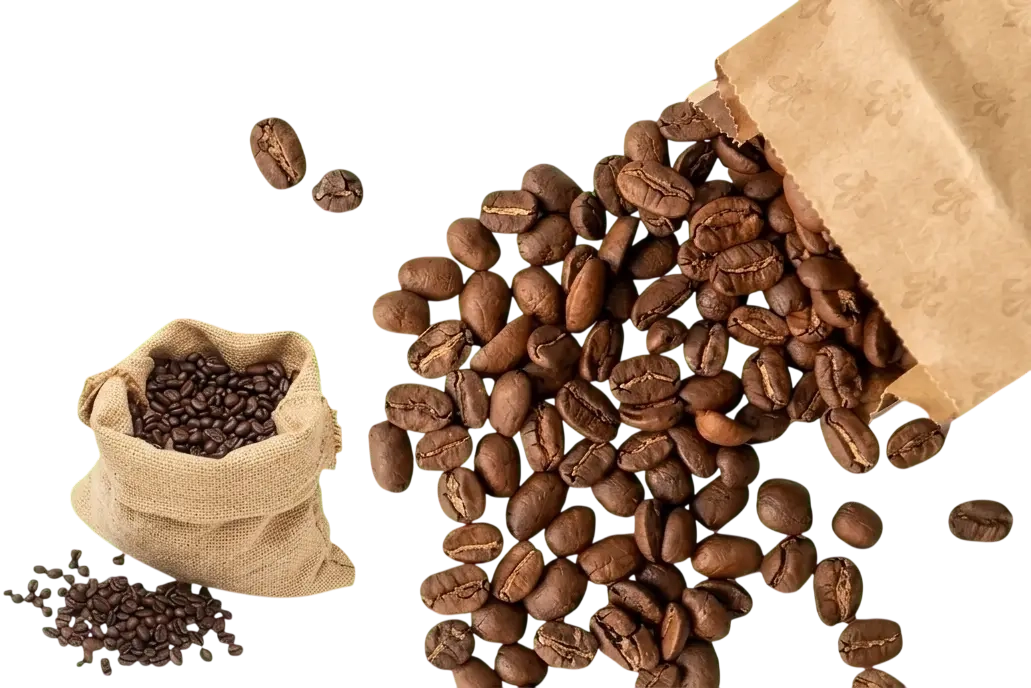
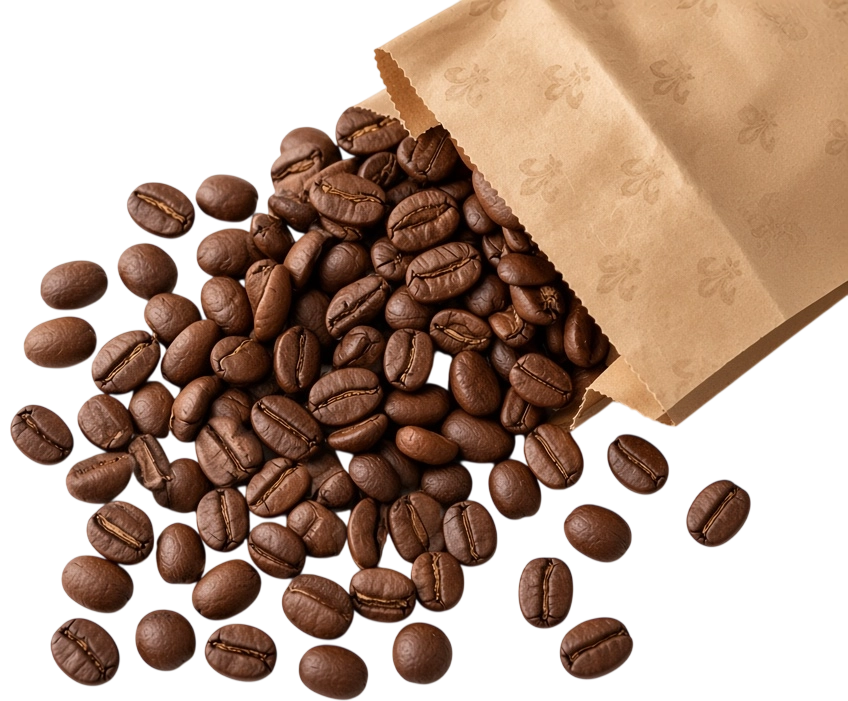
feat: enhance Coffee-Beans UI and overall experience

diff --git a/src/components/coffee-beans/CoffeeBeans.tsx b/src/components/coffee-beans/CoffeeBeans.tsx
@@ -1,26 +1,74 @@
+"use client";
+
 import React from "react";
+import { motion } from "framer-motion";
 
 const CoffeeBeans = () => {
   return (
-    <section className="my-18 flex h-150 w-full items-center 2xl:h-200 2xl:bg-[url('/images/backgrounds/coffee-bean-photo.webp')] 2xl:bg-right 2xl:bg-no-repeat">
-      <div className="container mx-auto flex items-center justify-between px-6 max-2xl:px-0 max-md:px-5 max-md:flex-col max-md:gap-12">
-        <div>
-          <div className="w-full max-w-140 max-md:flex max-md:flex-col max-md:items-center">
-            <h2 className="text text-primary text-3xl leading-10 font-bold lg:text-5xl lg:leading-15 xl:text-6xl xl:leading-20">
-              Check out our best coffee beans
-            </h2>
-            <p className="text-primary mt-5 mb-8 leading-8 text-balance max-md:text-center lg:mt-7 lg:mb-10">
-              Coffee beans begin as cherries, which ripen over several months.
-              Harvesting these cherries can be done either by hand or machine.
-              Hand-picking is labor-intensive but allows for the selection of
-              only the ripest cherries, ensuring higher quality.
-            </p>
-            <button className="bg-primary cursor-pointer rounded-xl px-8 py-4 font-semibold text-white max-[426px]:px-6 max-[426px]:py-2">
-              Explore our product
+    <section className="my-36 flex h-150 w-full items-center md:my-12 2xl:h-200 2xl:bg-[url('/images/backgrounds/coffee-bean-photo.webp')] 2xl:bg-right 2xl:bg-no-repeat">
+      <div className="container mx-auto flex items-center justify-between px-6 max-2xl:px-0 max-md:flex-col max-md:gap-12 max-md:px-5">
+        <motion.div
+          initial={{ opacity: 0, x: -40 }}
+          whileInView={{ opacity: 1, x: 0 }}
+          viewport={{ once: true, amount: 0.3 }}
+          transition={{ duration: 0.7, ease: "easeOut" }}
+          className="w-full max-w-xl px-6 text-center md:text-left"
+        >
+          <motion.span
+            initial={{ opacity: 0, y: 10 }}
+            whileInView={{ opacity: 1, y: 0 }}
+            viewport={{ once: true }}
+            transition={{ delay: 0.15, duration: 0.5 }}
+            className="text-primary/80 mb-4 inline-block text-sm font-medium tracking-widest uppercase"
+          >
+            From Farm to Cup
+          </motion.span>
+
+          <h2 className="text-primary relative text-3xl leading-tight font-bold text-balance sm:text-4xl md:text-4xl lg:text-6xl lg:leading-[1.15]">
+            Check out our best coffee beans
+            <span className="bg-primary/40 absolute -bottom-2 left-0 h-0.75 w-full rounded-full" />
+          </h2>
+
+          <p className="text-primary/80 mt-6 text-base md:mt-7 md:text-lg md:leading-7 lg:leading-9">
+            Coffee beans begin as cherries, which ripen over several months.
+            Harvesting these cherries can be done either by hand or machine.
+            Hand-picking is labor-intensive but allows for the selection of only
+            the ripest cherries, ensuring higher quality.
+          </p>
+
+          <motion.div
+            initial={{ opacity: 0, y: 20 }}
+            whileInView={{ opacity: 1, y: 0 }}
+            viewport={{ once: true }}
+            transition={{ delay: 0.25, duration: 0.5 }}
+            className="mt-8 md:mt-10"
+          >
+            <button className="group bg-primary md:hover:shadow-primary/30 relative inline-flex cursor-pointer items-center gap-2 overflow-hidden rounded-2xl px-6 py-2 font-semibold text-white transition-all duration-300 md:hover:shadow-xl active:scale-[0.98] md:px-8 md:py-4">
+              <span className="relative z-10 text-sm md:text-xl">
+                Explore our product
+              </span>
+
+              {/* Arrow */}
+              <svg
+                className="relative z-10 h-5 w-5 transition-transform duration-300 md:group-hover:translate-x-1"
+                fill="none"
+                viewBox="0 0 24 24"
+                stroke="currentColor"
+              >
+                <path
+                  strokeLinecap="round"
+                  strokeLinejoin="round"
+                  strokeWidth={2}
+                  d="M17 8l4 4m0 0l-4 4m4-4H3"
+                />
+              </svg>
+
+              {/* Hover shine effect */}
+              <span className="absolute inset-0 -translate-x-full bg-linear-to-r from-transparent via-white/20 to-transparent transition-transform duration-700 group-hover:translate-x-full" />
             </button>
-          </div>
-        </div>
-        <div className="basis-[70%] lg:basis-[50%]">
+          </motion.div>
+        </motion.div>
+        <div className="">
           <img
             className="2xl:hidden"
             src="/images/backgrounds/coffee-bean-photo.webp"
